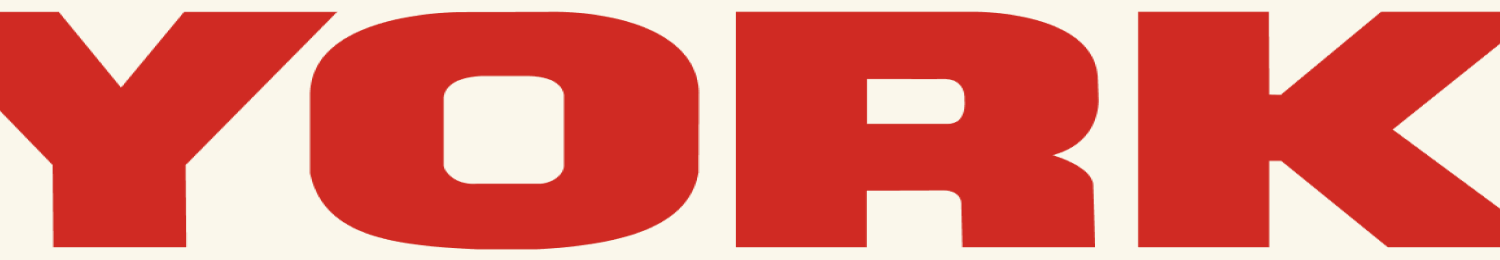
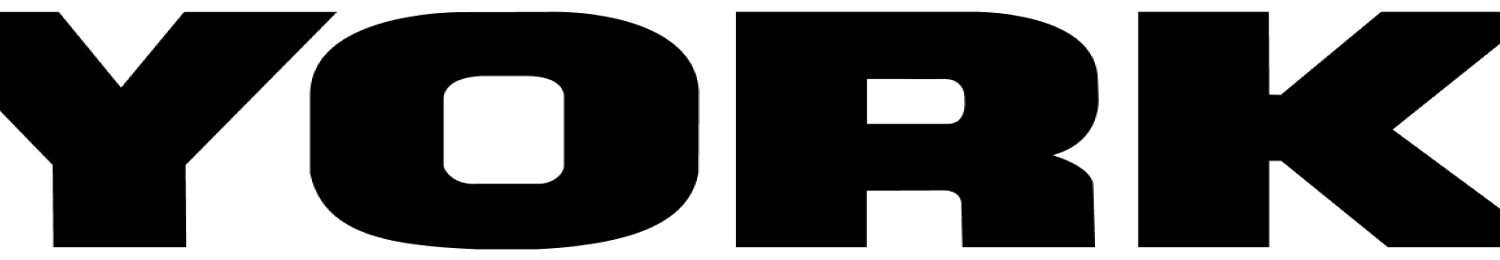
Tweak card shadows, heading tracking, and best-sellers watermark
- Product/card hover shadow: soft 20%-opacity blur, +5px offset (was hard red 10px offset)
- Display + heading classes: open up letter-spacing (new --font-tracking-display 0.03em) — Field Gothic caps were too tight
- Best-sellers YORK watermark: recolored red->black (asset), and removed below 1200px (dropped the mobile heading-bound variant)

diff --git a/css/pages.css b/css/pages.css
@@ -522,6 +522,11 @@
   z-index: 0;
 }
 
+/* YORK watermark only appears on large screens; removed below 1200px */
+@media (max-width: 1199px) {
+  #page-home .home__bestsellers::before { display: none; }
+}
+
 #page-home .home__bestsellers > * {
   position: relative;
   z-index: 1;
@@ -684,26 +689,7 @@
 @media (max-width: 767px) {
   #page-home .home__bestsellers { padding: var(--space-64) var(--space-16); gap: var(--space-24); }
   #page-home .home__bestsellers-grid { grid-template-columns: 1fr; gap: var(--space-16); }
-  /* Heading scales down and acts as the host for the YORK watermark on mobile */
-  #page-home .home__bestsellers-heading {
-    font-size: var(--font-size-32);
-    position: relative;
-    isolation: isolate;
-  }
-  #page-home .home__bestsellers-heading::before {
-    content: "";
-    position: absolute;
-    inset: 0;
-    background-image: url(../assets/images/home/bestsellers-bg.png);
-    background-repeat: no-repeat;
-    background-position: center;
-    background-size: 100% 100%;
-    opacity: 0.1;
-    pointer-events: none;
-    z-index: -1;
-  }
-  /* Section-level watermark is replaced by the heading-bound one on mobile */
-  #page-home .home__bestsellers::before { display: none; }
+  #page-home .home__bestsellers-heading { font-size: var(--font-size-32); }
 }
 
 /* ── Home: Blog ── */

diff --git a/css/base.css b/css/base.css
@@ -101,6 +101,17 @@ a:focus-visible { outline: 2px solid var(--accent-default); outline-offset: 2px;
   text-transform: uppercase;
 }
 
+/* Open up tracking on all display + heading styles — the Field Gothic caps
+   render very tight by default. */
+.display-xl,
+.display-lg,
+.heading-xl,
+.heading-lg,
+.heading-md,
+.heading-sm {
+  letter-spacing: var(--font-tracking-display);
+}
+
 .body-lg {
   font-family: var(--font-family-body);
   font-size: var(--font-size-20);

diff --git a/css/tokens.css b/css/tokens.css
@@ -70,6 +70,7 @@
   --font-tracking-normal:  0em;
   --font-tracking-wide:    0.005em;
   --font-tracking-wider:   0.010em;
+  --font-tracking-display: 0.03em;   /* display + heading classes — opens up the tight Field Gothic caps */
 
   /* ── Semantic tokens — Dark mode resolved ── */
   /* Each token aliases the primitive it references in Figma */

diff --git a/css/components.css b/css/components.css
@@ -112,7 +112,7 @@
 .pdp-generic__feature-card:hover,
 .pdp-single__product:hover {
   transform: translateY(-2px);
-  box-shadow: 10px 10px 0 0 var(--accent-default);
+  box-shadow: 5px 5px 16px 0 rgba(16, 24, 32, 0.2);
 }
 
 /* Red border + image zoom on hover are consolidated at the END of pages.css —
